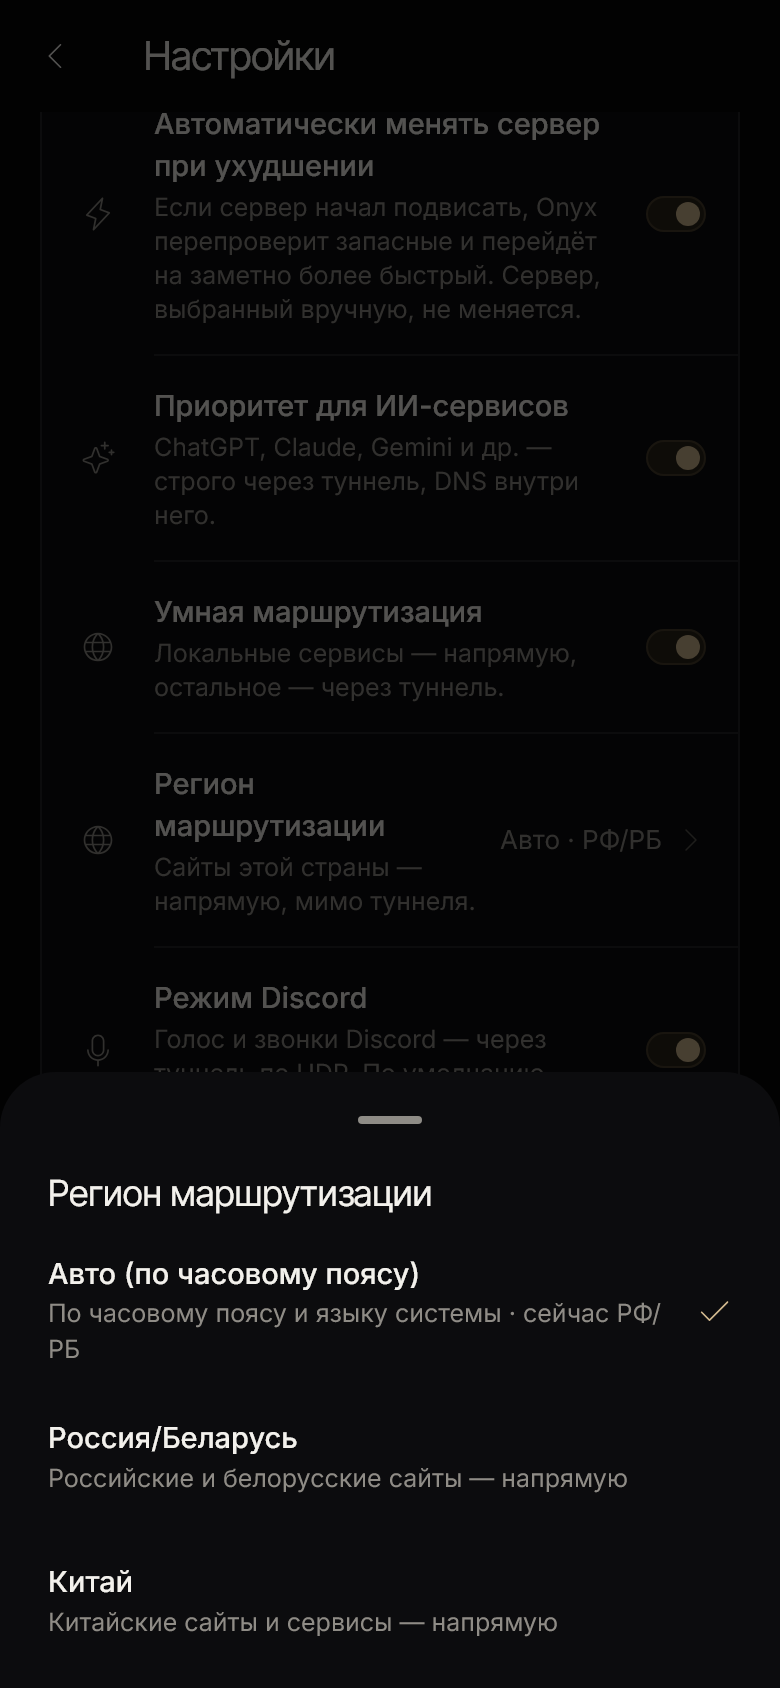
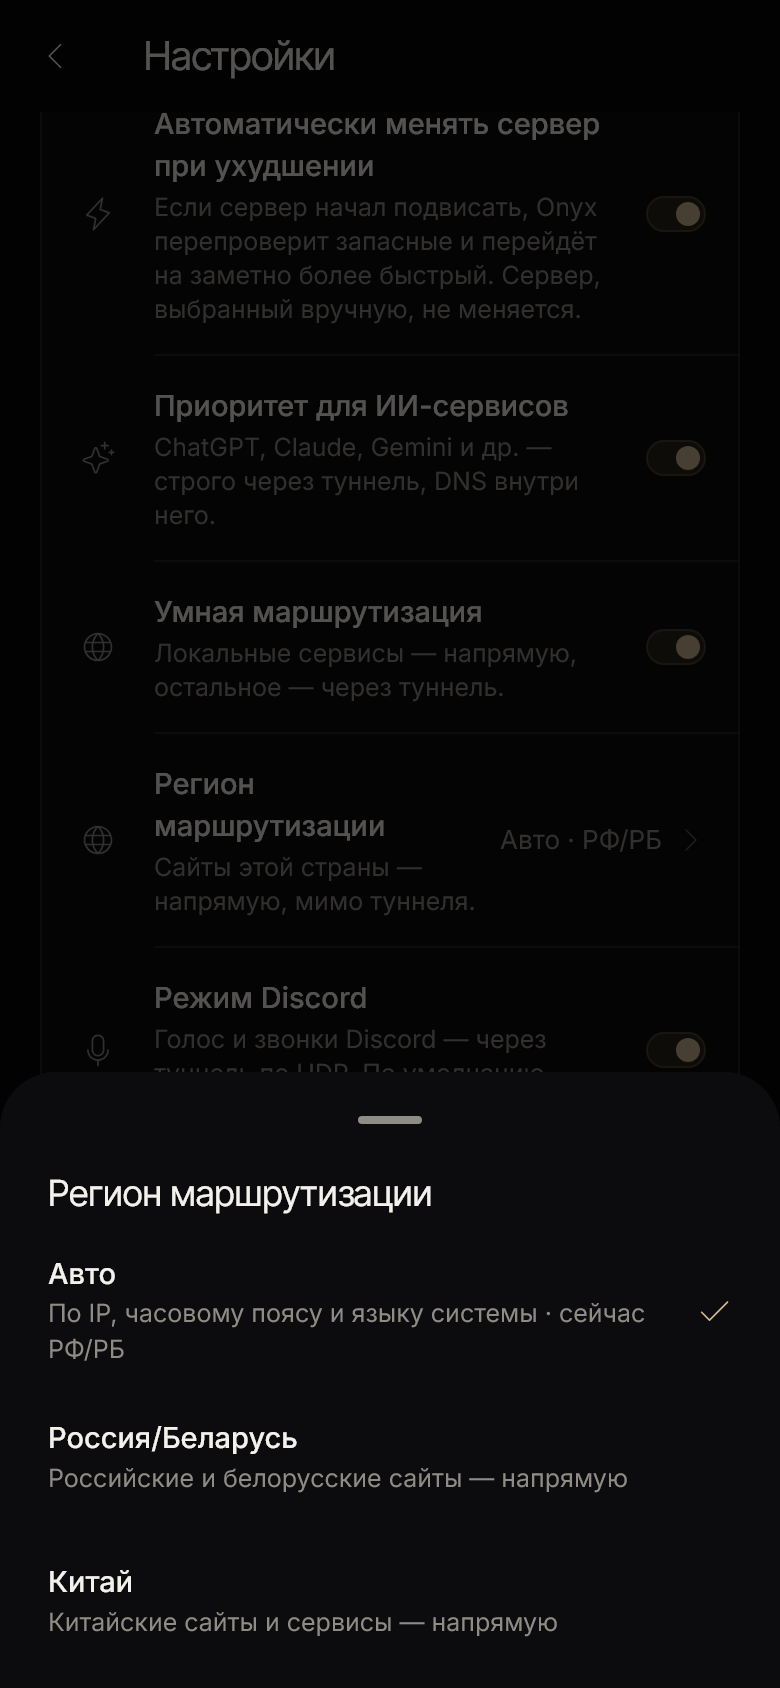
fix(ui): регион «Авто» — без «по часовому поясу», он уточняется и по IP (#41)
Этап 2 автопилота «Оникс» (feat/41 @7e01c11, влит перемоткой) уточняет
«Авто» по IP. Подпись «Авто (по часовому поясу)» стала неточной:
- RoutingRegion.auto.label → «Авто»;
- подсказка в листе выбора → «По IP, часовому поясу и языку системы ·
  сейчас РФ/РБ»; пункт Настроек по-прежнему «Авто · РФ/РБ»;
- golden листа региона обновлены.

Changed region(s): [[0.0923, 0.7393, 0.8308, 0.8009]]

diff --git a/lib/domain/routing_region.dart b/lib/domain/routing_region.dart
@@ -5,7 +5,7 @@
 ///                Bilibili, Taobao, банки) напрямую, локальный DNS 223.5.5.5,
 ///                всё остальное — через туннель.
 ///
-///   • [auto]   — определить по часовому поясу и локали устройства (Китай,
+///   • [auto]   — определить по IP, часовому поясу и локали устройства (Китай,
 ///                иначе Россия/Беларусь). Значение по умолчанию.
 ///
 /// Работает только при включённой умной маршрутизации (smartRouting).
@@ -13,7 +13,7 @@ enum RoutingRegion { auto, russia, china }
 
 extension RoutingRegionLabel on RoutingRegion {
   String get label => switch (this) {
-        RoutingRegion.auto => 'Авто (по часовому поясу)',
+        RoutingRegion.auto => 'Авто',
         RoutingRegion.russia => 'Россия/Беларусь',
         RoutingRegion.china => 'Китай',
       };

diff --git a/lib/presentation/screens/settings_screen.dart b/lib/presentation/screens/settings_screen.dart
@@ -524,7 +524,7 @@ class _RegionTile extends ConsumerWidget {
 
   /// Подпись варианта; для «Авто» — во что он сейчас развернулся.
   static String _hint(RoutingRegion r, RoutingRegion effective) => switch (r) {
-        RoutingRegion.auto => 'По часовому поясу и языку системы · сейчас ${_short(effective)}',
+        RoutingRegion.auto => 'По IP, часовому поясу и языку системы · сейчас ${_short(effective)}',
         RoutingRegion.russia => 'Российские и белорусские сайты — напрямую',
         RoutingRegion.china => 'Китайские сайты и сервисы — напрямую',
       };
